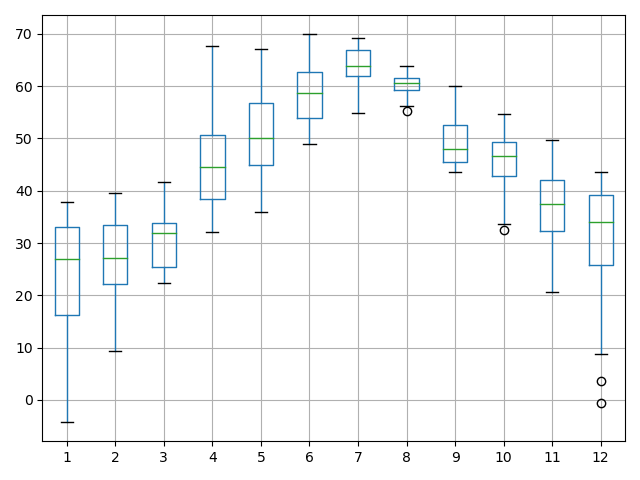
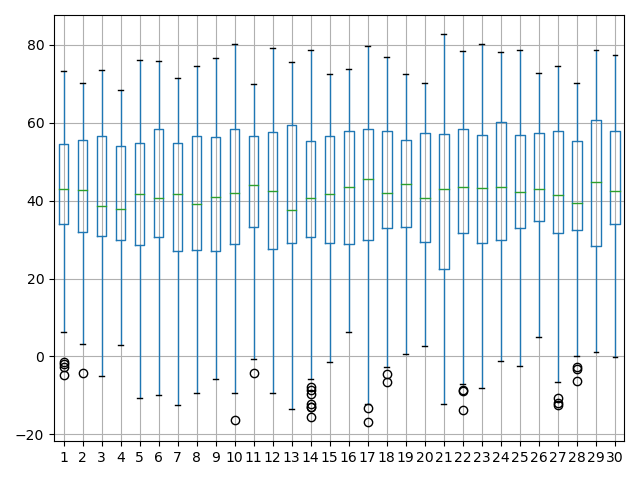
boxplot

Changed region(s): [[0.0312, 0.0312, 1.0, 0.9375], [0.0938, 0.9375, 0.9688, 0.9688]]

diff --git a/onedim_analisys.py b/onedim_analisys.py
@@ -16,28 +16,70 @@ def mad(df):
     median = df.median()
     return k * np.median(np.fabs(df - median))
 
+
 # функция распределения температуры - сумма гауссовских
 def estimation_func(x, a, b, c, d, f, g):
     return f * (1 / np.sqrt(2 * 3.14) / b * np.exp(- (x - a) ** 2 / 2 / b ** 2)) + \
            g * (1 / np.sqrt(2 * 3.14) / d * np.exp(- (x - c) ** 2 / 2 / d ** 2))
+
 
 # функция макс правдоподобия для температуры
 def likelihood_func(args, x):
     return -np.prod(args[4] * (1 / np.sqrt(2 * 3.14) / args[1] * np.exp(- (x - args[0]) ** 2 / 2 / args[1] ** 2)) + args[5] * (1 / np.sqrt(2 * 3.14) / args[3] * np.exp(- (x - args[2]) ** 2 / 2 / args[3] ** 2)))
 
 
+# Расчет доверительных интервалов для 25%, 50% и 75% квантилей
+def conf_intervals(data, qn):
+    # 95% квантиль распределения Гаусса
+    norm_q95 = sp.stats.norm.ppf(0.95)
+    kernel = sp.stats.gaussian_kde(data)
+
+    p25 = len(data[data < qn[5]]) / len(data)
+    sigma25 = \
+        (sqrt((p25 * (1 - p25)) / len(data))) / kernel(qn[5])
+    p50 = len(data[data < qn[10]]) / len(data)
+    sigma50 = \
+        (sqrt((p50 * (1 - p50)) / len(data))) / kernel(qn[10])
+    p75 = len(data[data < qn[15]]) / len(data)
+    sigma75 = \
+        (sqrt((p75 * (1 - p75)) / len(data))) / kernel(qn[15])
+
+    conf_q25 = norm_q95 * sigma25
+    conf_q50 = norm_q95 * sigma50
+    conf_q75 = norm_q95 * sigma75
+
+    return [conf_q25, conf_q50, conf_q75]
+
+
 if __name__ == "__main__":
+
     # step 1
     tb_3cols_all = pd.read_csv("data/data_spb.csv", index_col=0, na_values='NA',
                                usecols=['STATION', 'DATE', 'TEMP', 'STP'])
     tb_3cols = tb_3cols_all.loc[26063099999]
+    tb_3cols = tb_3cols[['DATE', 'TEMP', 'STP']]
+    tb_3cols.reset_index(drop=True, inplace=True)
+    tb_3cols.index = tb_3cols.DATE
+    tb_3cols.drop('DATE', axis=1, inplace=True)
+    tb_3cols.hist()  # похоже, что у str есть пропуски
+
+    # Тут мы указываем год для каждого показания
+    tb_2cols = tb_3cols[['TEMP']]
+    year_values = np.array([])
+    for y in range(1990, 2021):
+        m1 = '{0}-01-01'.format(y)
+        m2 = '{0}-12-31'.format(y)
+        srez = tb_2cols.loc[m1:m2]
+        col1 = np.full(len(srez), y)
+        year_values = np.hstack([year_values, col1])
+    print(year_values, len(year_values), len(tb_2cols))
+    tb_2cols['YEAR'] = year_values
 
     # step 2a, 4, 5
     # гистограмма и непараметрическая оценка
     fig, ax = plt.subplots()
 
     y, x, _ = hist(tb_3cols['TEMP'].tolist(), 100, alpha=.3, label='data', density=True)
-
     density = kde.gaussian_kde(sorted(tb_3cols['TEMP']))
     kernel = sp.stats.gaussian_kde(tb_3cols['TEMP'])
     temp_grid = np.linspace(min(tb_3cols['TEMP']), max(tb_3cols['TEMP']), 100)
@@ -54,7 +96,6 @@ if __name__ == "__main__":
     lik_model = optimize.minimize(likelihood_func, args_0, args=tb_3cols['TEMP'].tolist())
     plt.plot(temp_grid, estimation_func(temp_grid, *lik_model.x), color='red', label='MLE')
     legend()
-
     plt.legend()
     plt.show()
 
@@ -95,9 +136,102 @@ if __name__ == "__main__":
     print("95%% Доверительный интервал выборочного СКО: (%0.3f; %0.3f)"
           % (std_conf_left, std_conf_right))
 
-    # step 3
-    tb_2cols = tb_3cols[['DATE', 'TEMP']]
-    tb_2cols.boxplot()
-    plt.title("Box-and-whiskers")
+    # step 3 ящик с усами
+
+    # tb_2cols = tb_3cols[['TEMP']]
+    # tb_2cols.boxplot()
+    # plt.title("Box-and-whiskers")
+    # plt.show()
+    tb_2box = tb_2cols[['TEMP']]
+    tb_2box.index = pd.to_datetime(tb_2box.index)
+    tb_2box = tb_2box.loc['1990-01-01':'2019-12-31']
+    fig, ax = plt.subplots()
+
+    groups = tb_2box.groupby(pd.Grouper(freq="1Y"))
+    years = pd.concat([pd.DataFrame(x[1].values) for x in groups], axis=1)
+    years = pd.DataFrame(years)
+    print(years)
+    years.columns = range(1, 31)
+    years.boxplot()
     plt.show()
+    fig.savefig('Ящик с усами.png')
+
+    # step 6 Расчет квантилей
+    srez = tb_2cols.loc['2005-01-01':'2005-12-31']
+    srez2 = tb_2cols.loc['2009-01-01':'2009-12-31']
+
+    percs = np.linspace(0, 100, 21)
+    qn_first = np.percentile(srez['TEMP'], percs)
+    qn_second = np.percentile(srez2['TEMP'], percs)
+    conf_first = conf_intervals(srez['TEMP'], qn_first)
+    conf_second = conf_intervals(srez2['TEMP'], qn_first)
+
+    # Построение квантильного биплота для двух случайных величин
+    plt.figure(figsize=(12, 12))
+    min_qn = np.min([qn_first.min(), qn_second.min()])
+    max_qn = np.max([qn_first.max(), qn_second.max()])
+    x = np.linspace(min_qn, max_qn)
+    plt.plot(qn_first, qn_second, ls="", marker="o", markersize=6)
+    plt.plot(x, x, color="k", ls="--")
+    plt.xlabel('2005')
+    plt.ylabel('2009')
+    plt.xlim([min_qn, 80])
+    plt.ylim([min_qn, 80])
+    plt.grid(True)
+    conf1 = list()
+    conf1.append(conf_first[0][0])
+    conf1.append(conf_first[1][0])
+    conf1.append(conf_first[2][0])
+    conf2 = list()
+    conf2.append(conf_second[0][0])
+    conf2.append(conf_second[1][0])
+    conf2.append(conf_second[2][0])
+    print('rr', conf1, conf2)
+    # Добавление доверительных интервалов на график
+    plt.errorbar(
+        # [25%, 50%, 75%]
+        [qn_first[5], qn_first[10], qn_first[15]],
+        [qn_second[5], qn_second[10], qn_second[15]],
+        xerr=conf1,
+        yerr=conf2,
+        ls='none',
+        capsize=3,
+        elinewidth=2
+    )
+
+    plt.title('QQ-plot')
+    plt.show()
+
+    # Определение параметров логнормального распределения средней величины температуры для 2008 года
+    x = np.linspace(np.min(srez['TEMP']), np.max(srez['TEMP']))
+
+    # Параметры распределения определяются при помощи функции fit на основе метода максимального правдоподобия
+    params = sp.stats.lognorm.fit(srez['TEMP'])
+    pdf = sp.stats.lognorm.pdf(x, *params)
+
+    # step 7 Расчет критерия Колмогорова-Смирнова и хи-квадрат
+    ks = sp.stats.kstest(srez['TEMP'], 'lognorm', params, N=100)
+    chi2 = sp.stats.chisquare(srez['TEMP'])
+    print(ks)
+    print(chi2)
+
+    # Построение квантильного биплота для эмпирического и теоретического (логнормального) распределения
+    # Расчет квантилей
+    percs = np.linspace(0, 100, 21)
+    qn_first = np.percentile(srez['TEMP'], percs)
+    qn_lognorm = sp.stats.lognorm.ppf(percs / 100.0, *params)
+
+    # Построение квантильного биплота
+    plt.figure(figsize=(12, 12))
+    plt.title('QQ-plot2')
+    plt.plot(qn_first, qn_lognorm, ls="", marker="o", markersize=6)
+    plt.plot(x, x, color="k", ls="--")
+    plt.xlim([min_qn, 70])
+    plt.ylim([min_qn, 70])
+    plt.xlabel(f'Эмпирическое распределение')
+    plt.ylabel('Теоретическое (логнормальное) распределение')
+    plt.show()
+
+    print(qn_first, qn_second, qn_lognorm)
+
 
